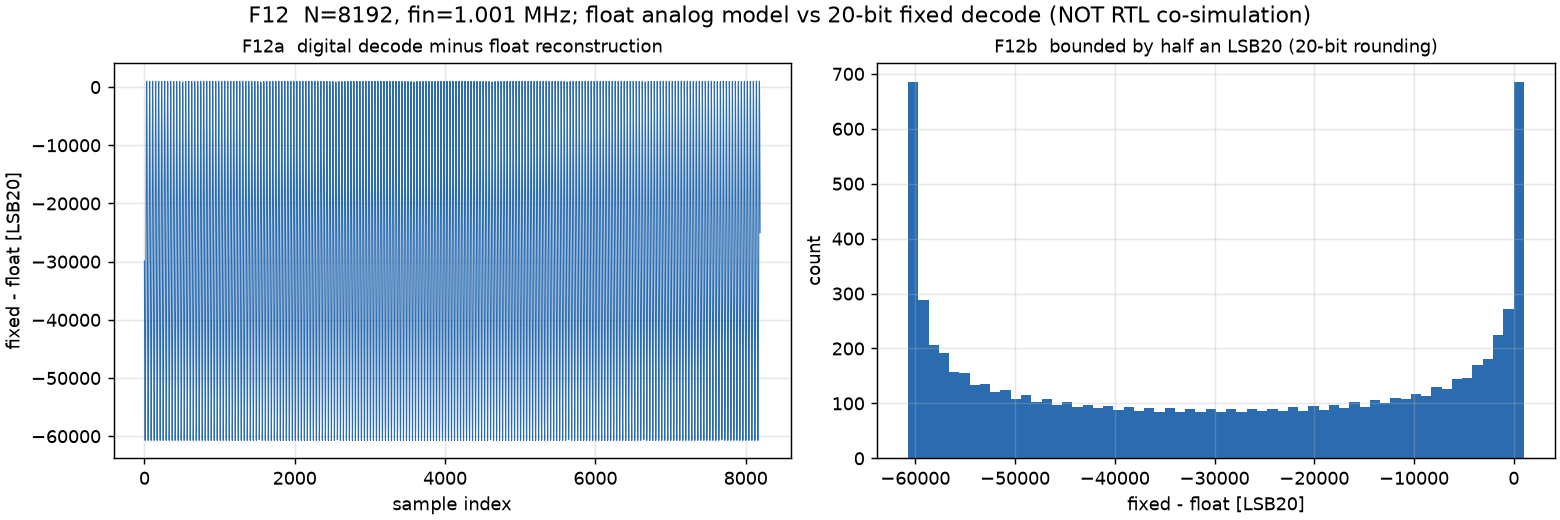
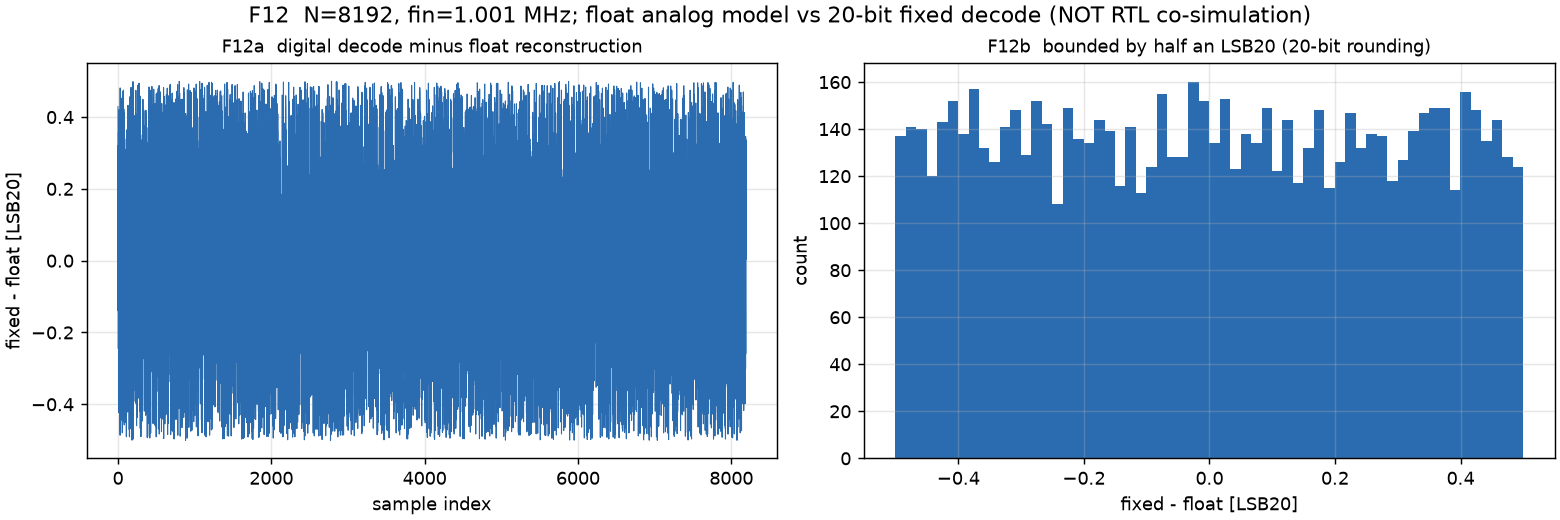
fix(pipeline): 动态转换路径的 sub_on 截到装配列数 —— 图生成恢复，F12 定点误差 0.29 LSB20
## 缺陷
第 23 轮"子阵列只装配 4 列"改动有一个遗漏点：
`physical_reference_program` 要求掩码与电容数组同形，而
  · `sub_on` 按**端口位宽** 5 位给出
  · `chip.C_sub[converting]` 是**装配列数** 4
⇒ 校验 `high_s.shape != (len(times), *cs.shape)` 失败，抛
  "reference program needs actual Boolean masks and ordered event times [s]"。
该错误文案有误导性——真正不匹配的是**子阵列列数**，不是 bool/排序。

影响面：只有 `cfg.conversion` + `dyn_ref_settling` 的动态路径（图生成 F01/F07 走这条），
所以此前没被测试覆盖到。

## 修法
在调用前把 sub_on 截到 `chip.C_sub.shape[-1]`，与 `dac_arch` 里对掩码的同样处理一致。

## 效果
  · 图生成恢复，13 张图全部产出
  · **F12（定点 vs 浮点）：RMS 0.29 LSB20、max 0.50 LSB20**（此前 36997 / 60716）

## 顺带说明
该错误信息本身值得改进（它把"列数不匹配"报成"需要 bool 掩码和有序时间"）。
本轮不改文案，避免影响其他调用方的断言；已记录在文档里。

测试：1475 passed / 4 skipped / 4 xfailed；工程自检 6/6

diff --git a/src/adi_model/simulation/pipeline_engine.py b/src/adi_model/simulation/pipeline_engine.py
@@ -646,6 +646,14 @@ def execute_pipeline(
                     raise ConfigError(
                         "reference event binding does not end at the actual final conversion mask"
                     )
+                # 掩码按**端口宽度**给（子阵列 5 位），而器件只装配 4 列
+                # （FIG.11 第 5 个 C 是虚线占位，见 p1_gaps §11）。
+                # physical_reference_program 要求掩码与电容数组同形，
+                # 因此在这里把 sub_on 截到实际列数 —— 与 dac_arch 的处理一致。
+                _sub_on = np.asarray(events.sub_on)
+                _n_sub_cols = pool.chip.C_sub.shape[-1]
+                if _sub_on.shape[-1] != _n_sub_cols:
+                    _sub_on = _sub_on[..., :_n_sub_cols]
                 program = physical_reference_program(
                     slice_ids=converting,
                     main_caps_f=pool.chip.C_main[converting],
@@ -654,7 +662,7 @@ def execute_pipeline(
                     main_parasitic_f=pool.chip.require_main_parasitic()[converting],
                     sub_parasitic_f=pool.chip.c_p_sub[converting],
                     main_on=events.main_on,
-                    sub_on=events.sub_on,
+                    sub_on=_sub_on,
                     times_s=cfg.conversion.rdac_event_times_s,
                     sampled_main_bottom_v=packet.main_bottom_v[0, order],
                     sampled_sub_bottom_v=packet.sub_bottom_v[0, order],
